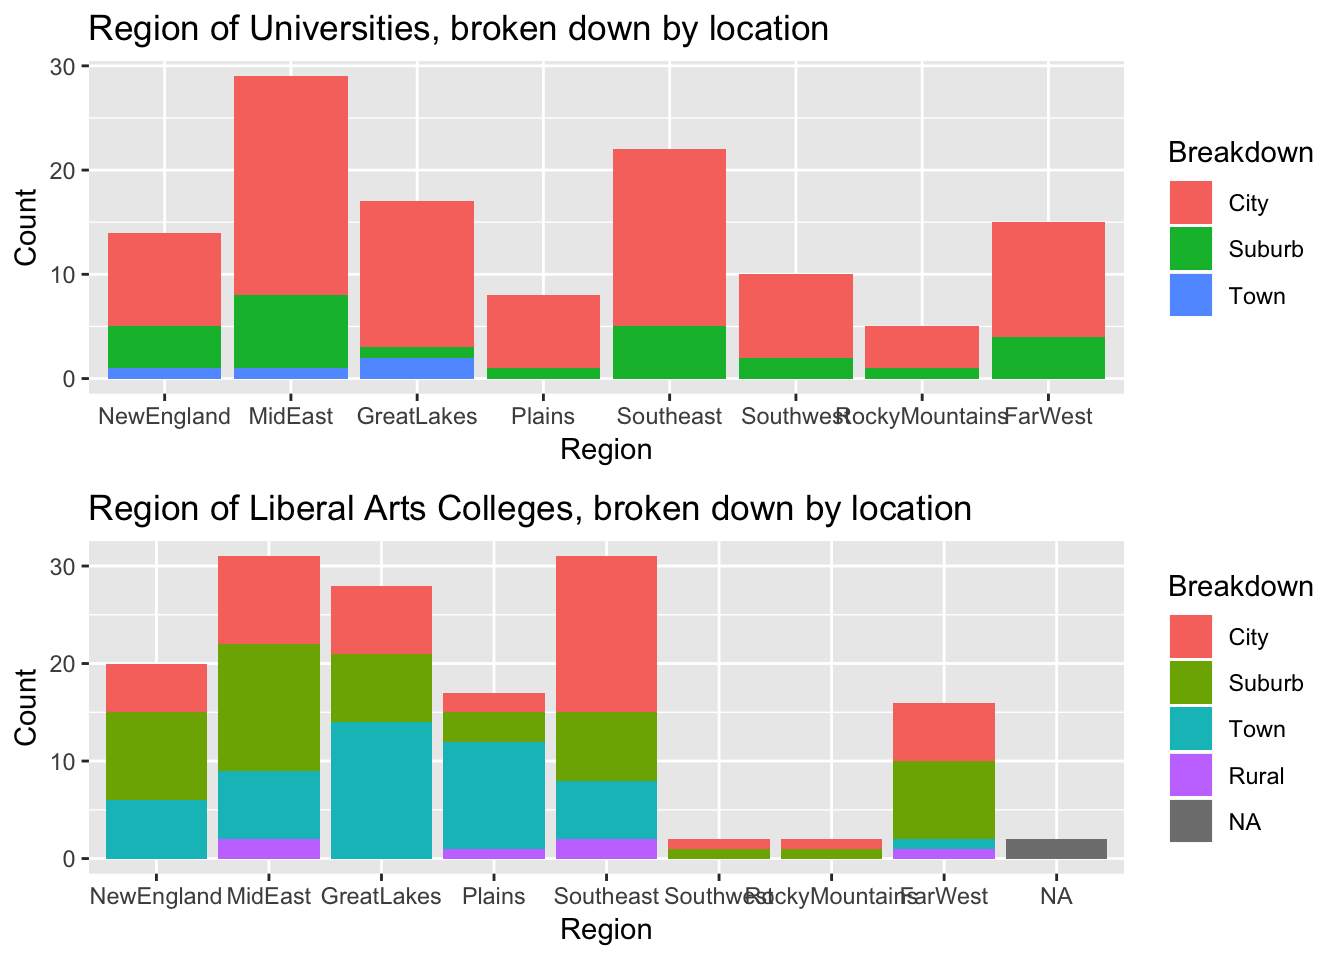
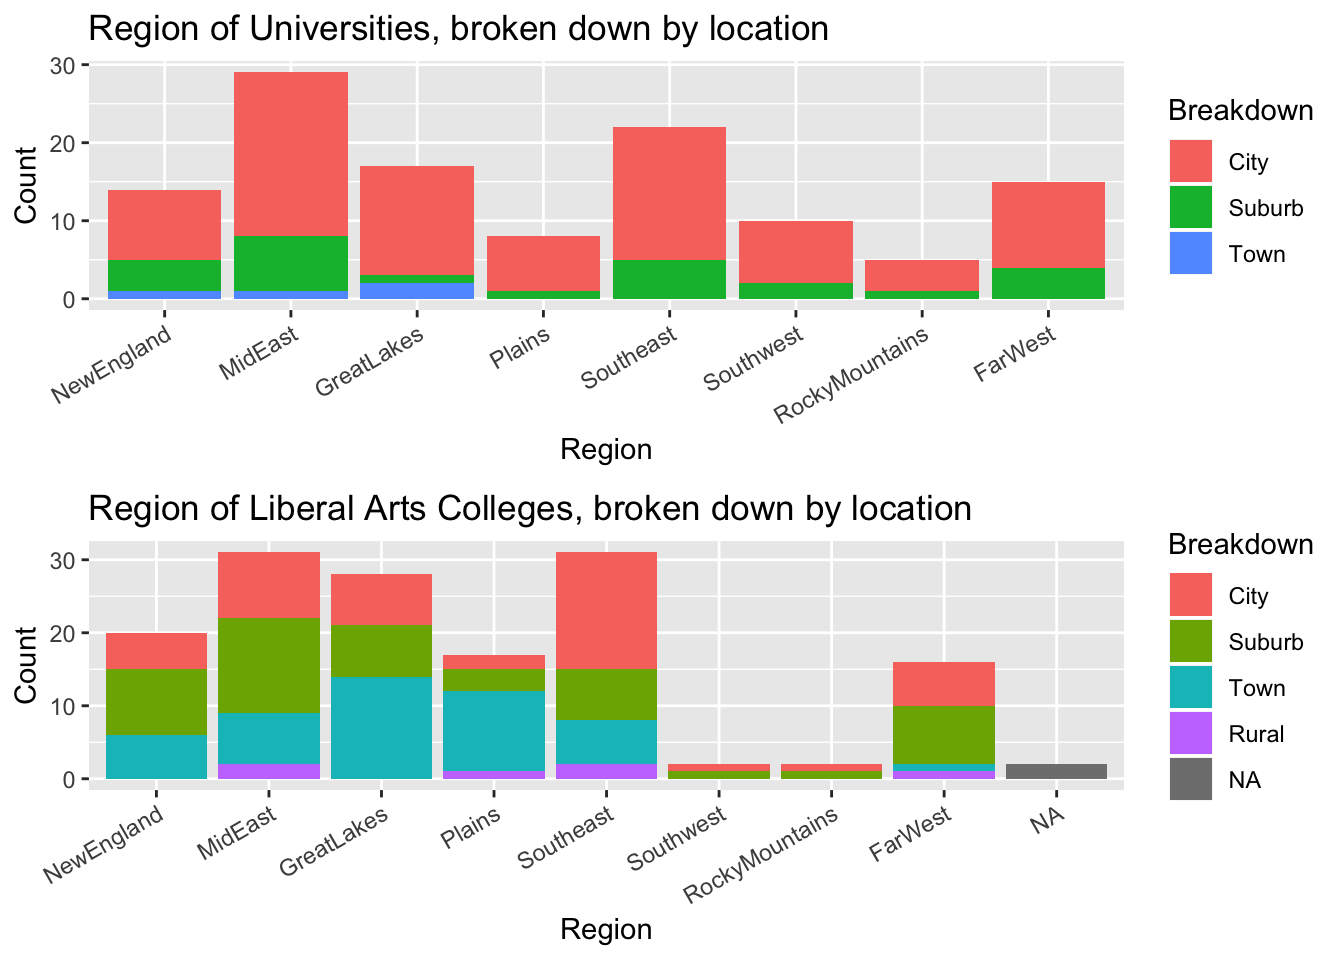
commit this

diff --git a/docs/visualization.html b/docs/visualization.html
@@ -183,12 +183,14 @@ fullUniversity<span class="op">$</span>LOCALE_collapse2 &lt;-<span class="st"> <
 <div class="sourceCode"><pre class="sourceCode r"><code class="sourceCode r">g1 &lt;-<span class="st"> </span><span class="kw">ggplot</span>(fullUniversity, <span class="kw">aes</span>(<span class="dt">x =</span> REGION_collapse, <span class="dt">fill =</span> LOCALE_collapse)) <span class="op">+</span>
 <span class="st">  </span><span class="kw">geom_bar</span>() <span class="op">+</span>
 <span class="st">  </span><span class="kw">xlab</span>(<span class="st">&quot;Region&quot;</span>) <span class="op">+</span><span class="st"> </span><span class="kw">scale_fill_discrete</span>(<span class="dt">name =</span> <span class="st">&quot;Breakdown&quot;</span>) <span class="op">+</span><span class="st"> </span><span class="kw">ylab</span>(<span class="st">&quot;Count&quot;</span>) <span class="op">+</span>
-<span class="st">  </span><span class="kw">ggtitle</span>(<span class="st">&quot;Region of Universities, broken down by location&quot;</span>)
+<span class="st">  </span><span class="kw">ggtitle</span>(<span class="st">&quot;Region of Universities, broken down by location&quot;</span>) <span class="op">+</span>
+<span class="st">  </span><span class="kw">theme</span>(<span class="dt">axis.text.x =</span> <span class="kw">element_text</span>(<span class="dt">angle =</span> <span class="dv">30</span>, <span class="dt">hjust =</span> <span class="dv">1</span>))
 
 g2 &lt;-<span class="st"> </span><span class="kw">ggplot</span>(full_LiberalArts, <span class="kw">aes</span>(<span class="dt">x =</span> REGION_collapse, <span class="dt">fill =</span> LOCALE_collapse_lac1)) <span class="op">+</span>
 <span class="st">  </span><span class="kw">geom_bar</span>() <span class="op">+</span>
 <span class="st">  </span><span class="kw">xlab</span>(<span class="st">&quot;Region&quot;</span>) <span class="op">+</span><span class="st"> </span><span class="kw">scale_fill_discrete</span>(<span class="dt">name =</span> <span class="st">&quot;Breakdown&quot;</span>) <span class="op">+</span><span class="st"> </span><span class="kw">ylab</span>(<span class="st">&quot;Count&quot;</span>) <span class="op">+</span>
-<span class="st">  </span><span class="kw">ggtitle</span>(<span class="st">&quot;Region of Liberal Arts Colleges, broken down by location&quot;</span>)
+<span class="st">  </span><span class="kw">ggtitle</span>(<span class="st">&quot;Region of Liberal Arts Colleges, broken down by location&quot;</span>) <span class="op">+</span>
+<span class="st">  </span><span class="kw">theme</span>(<span class="dt">axis.text.x =</span> <span class="kw">element_text</span>(<span class="dt">angle =</span> <span class="dv">30</span>, <span class="dt">hjust =</span> <span class="dv">1</span>))
 
 <span class="kw">grid.arrange</span>(g1, g2, <span class="dt">nrow =</span> <span class="dv">2</span>)</code></pre></div>
 <p><img src="CollegeRanking_files/figure-html/unnamed-chunk-22-1.png" width="672" /></p>
@@ -202,7 +204,8 @@ g4 &lt;-<span class="st"> </span><span class="kw">ggplot</span>(full_LiberalArts
 <span class="st">  </span><span class="kw">geom_bar</span>() <span class="op">+</span>
 <span class="st">  </span><span class="kw">xlab</span>(<span class="st">&quot;Geographical Location&quot;</span>) <span class="op">+</span><span class="st"> </span><span class="kw">scale_fill_discrete</span>(<span class="dt">name =</span> <span class="st">&quot;Breakdown&quot;</span>) <span class="op">+</span><span class="st"> </span><span class="kw">ylab</span>(<span class="st">&quot;Count&quot;</span>) <span class="op">+</span>
 <span class="st">  </span><span class="kw">ggtitle</span>(<span class="st">&quot;Location of Liberal Arts Colleges, broken down by size&quot;</span>) <span class="op">+</span>
-<span class="st">  </span><span class="kw">theme</span>(<span class="dt">plot.title =</span> <span class="kw">element_text</span>(<span class="dt">size =</span> <span class="fl">9.5</span>)) 
+<span class="st">  </span><span class="kw">theme</span>(<span class="dt">plot.title =</span> <span class="kw">element_text</span>(<span class="dt">size =</span> <span class="fl">9.5</span>))  <span class="op">+</span>
+<span class="st">  </span><span class="kw">theme</span>(<span class="dt">axis.text.x =</span> <span class="kw">element_text</span>(<span class="dt">angle =</span> <span class="dv">30</span>))
   
 <span class="kw">grid.arrange</span>(g3, g4, <span class="dt">nrow =</span> <span class="dv">1</span>)</code></pre></div>
 <p><img src="CollegeRanking_files/figure-html/unnamed-chunk-23-1.png" width="672" /></p>

diff --git a/docs/bayesian-models-part-1.html b/docs/bayesian-models-part-1.html
@@ -236,7 +236,7 @@ university_chains_<span class="dv">0</span> &lt;-<span class="st"> </span><span 
 <div class="sourceCode"><pre class="sourceCode r"><code class="sourceCode r">university_chains_<span class="dv">0</span> <span class="op">%&gt;%</span>
 <span class="st">  </span><span class="kw">summarize</span>(<span class="kw">quantile</span>(ranking_new,<span class="fl">0.025</span>),<span class="kw">quantile</span>(ranking_new,<span class="fl">0.975</span>))</code></pre></div>
 <pre><code>##   quantile(ranking_new, 0.025) quantile(ranking_new, 0.975)
-## 1                    -19.52518                     61.70322</code></pre>
+## 1                    -18.42477                     62.94967</code></pre>
 <p>A <span class="math inline">\(95\%\)</span> credible interval is <span class="math inline">\((-20,62)\)</span>. Due to restrictions of this one-predictor model, we expect to see an improvement in later models.</p>
 </div>
 </div>
@@ -323,7 +323,7 @@ university_chains_<span class="dv">1</span> &lt;-<span class="st"> </span><span 
 <div class="sourceCode"><pre class="sourceCode r"><code class="sourceCode r">university_chains_<span class="dv">1</span> <span class="op">%&gt;%</span>
 <span class="st">  </span><span class="kw">summarize</span>(<span class="kw">quantile</span>(ranking_new,<span class="fl">0.025</span>),<span class="kw">quantile</span>(ranking_new,<span class="fl">0.975</span>))</code></pre></div>
 <pre><code>##   quantile(ranking_new, 0.025) quantile(ranking_new, 0.975)
-## 1                    -14.50881                      62.8556</code></pre>
+## 1                    -14.64284                     62.82936</code></pre>
 <p>A <span class="math inline">\(95\%\)</span> credible interval is <span class="math inline">\((-14,64)\)</span>. The <span class="math inline">\(95\%\)</span> credible interval in the new model does a better job at eliminating negative rankings, which are impossible in reality.</p>
 </div>
 </div>
@@ -457,7 +457,7 @@ university_chains_<span class="dv">2</span> &lt;-<span class="st"> </span><span 
 <div class="sourceCode"><pre class="sourceCode r"><code class="sourceCode r">university_chains_<span class="dv">2</span> <span class="op">%&gt;%</span>
 <span class="st">  </span><span class="kw">summarize</span>(<span class="kw">quantile</span>(ranking_new,<span class="fl">0.025</span>),<span class="kw">quantile</span>(ranking_new,<span class="fl">0.975</span>))</code></pre></div>
 <pre><code>##   quantile(ranking_new, 0.025) quantile(ranking_new, 0.975)
-## 1                    -83.75616                     145.3569</code></pre>
+## 1                    -82.73487                     142.9803</code></pre>
 <p>A <span class="math inline">\(95\%\)</span> credible interval is <span class="math inline">\((-86,142)\)</span>. The <span class="math inline">\(95\%\)</span> credible interval does a poor job at eliminating negative rankings or making an accurate prediction. We propose that this may be due to the variability of the priors and hyperpriors set in our Hierarchical Model.</p>
 </div>
 </div>
